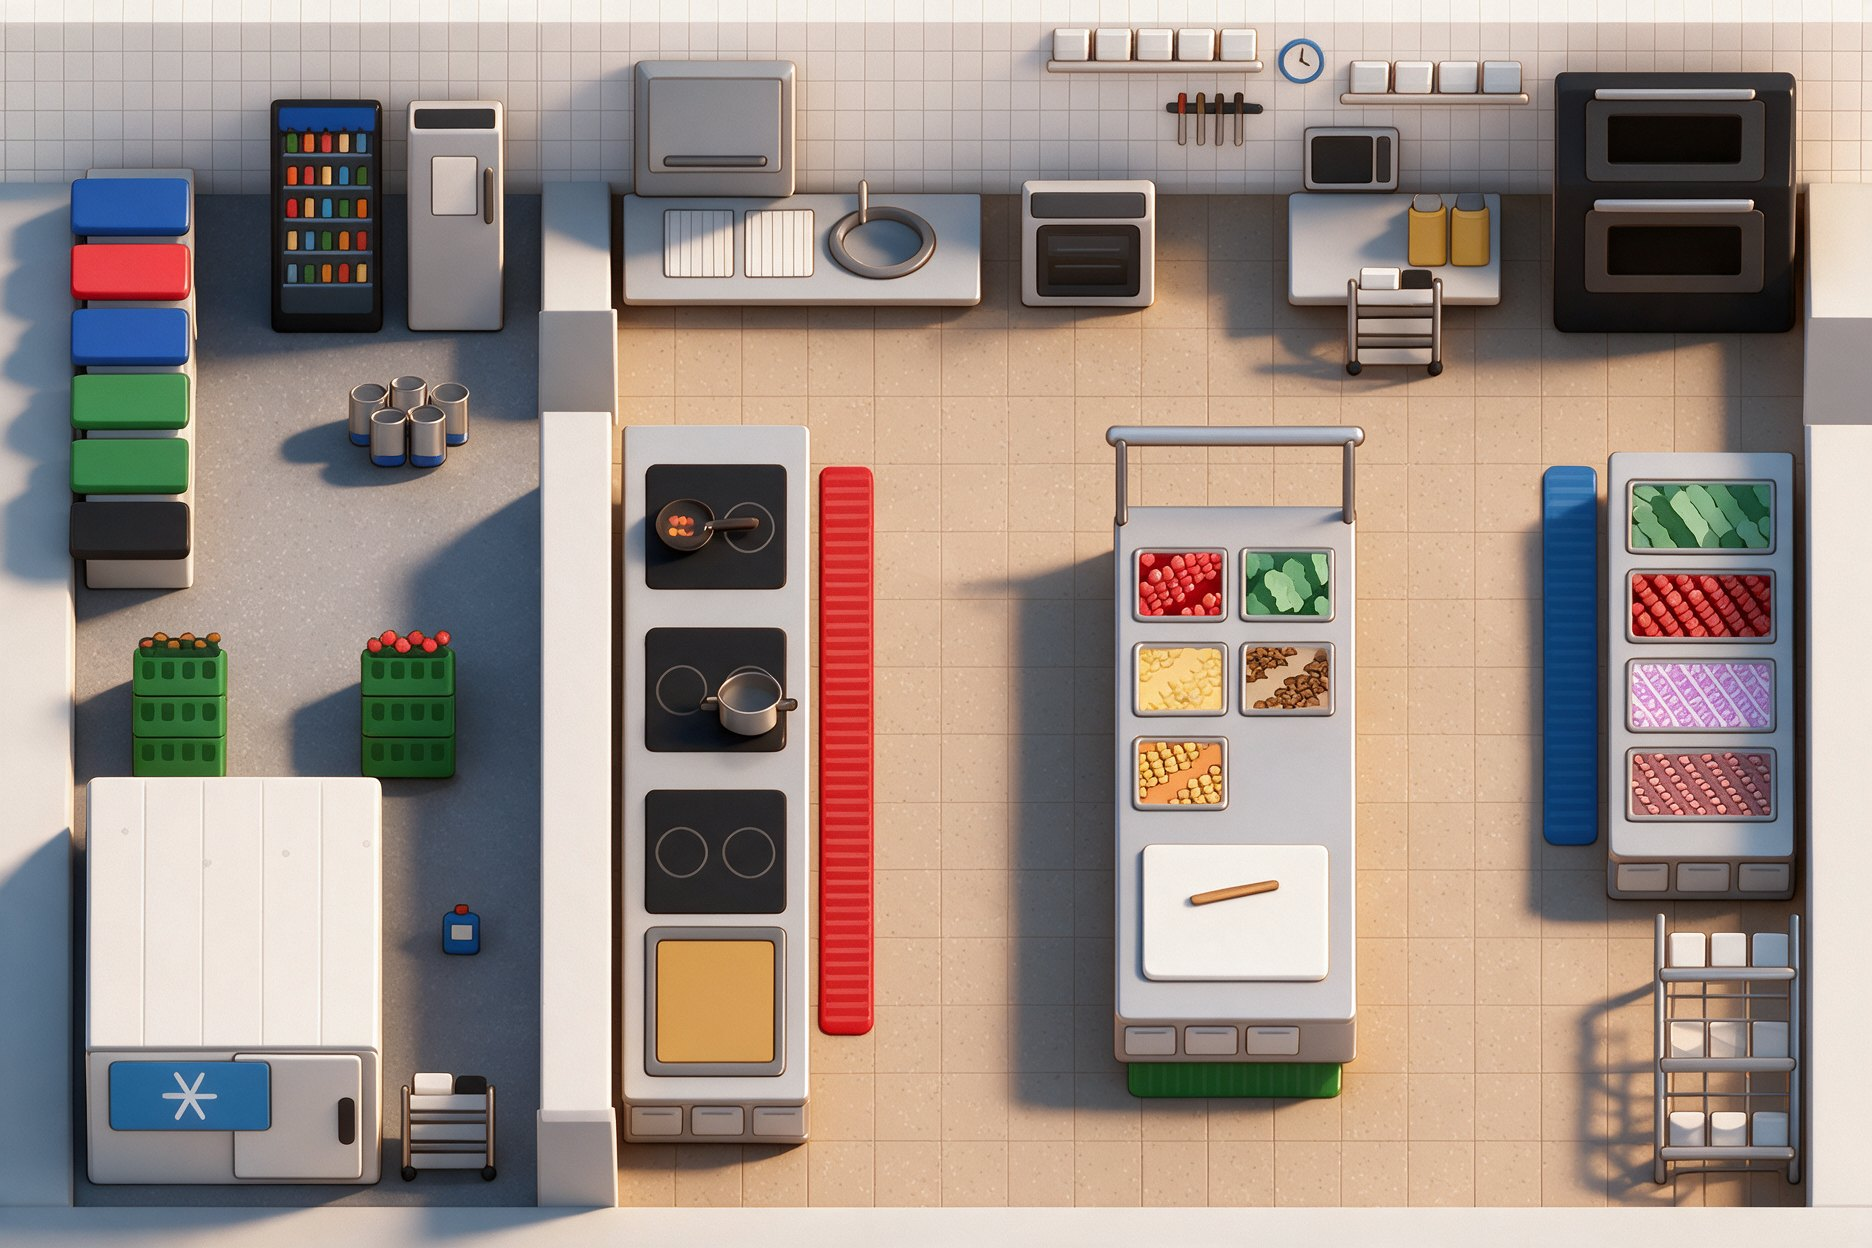
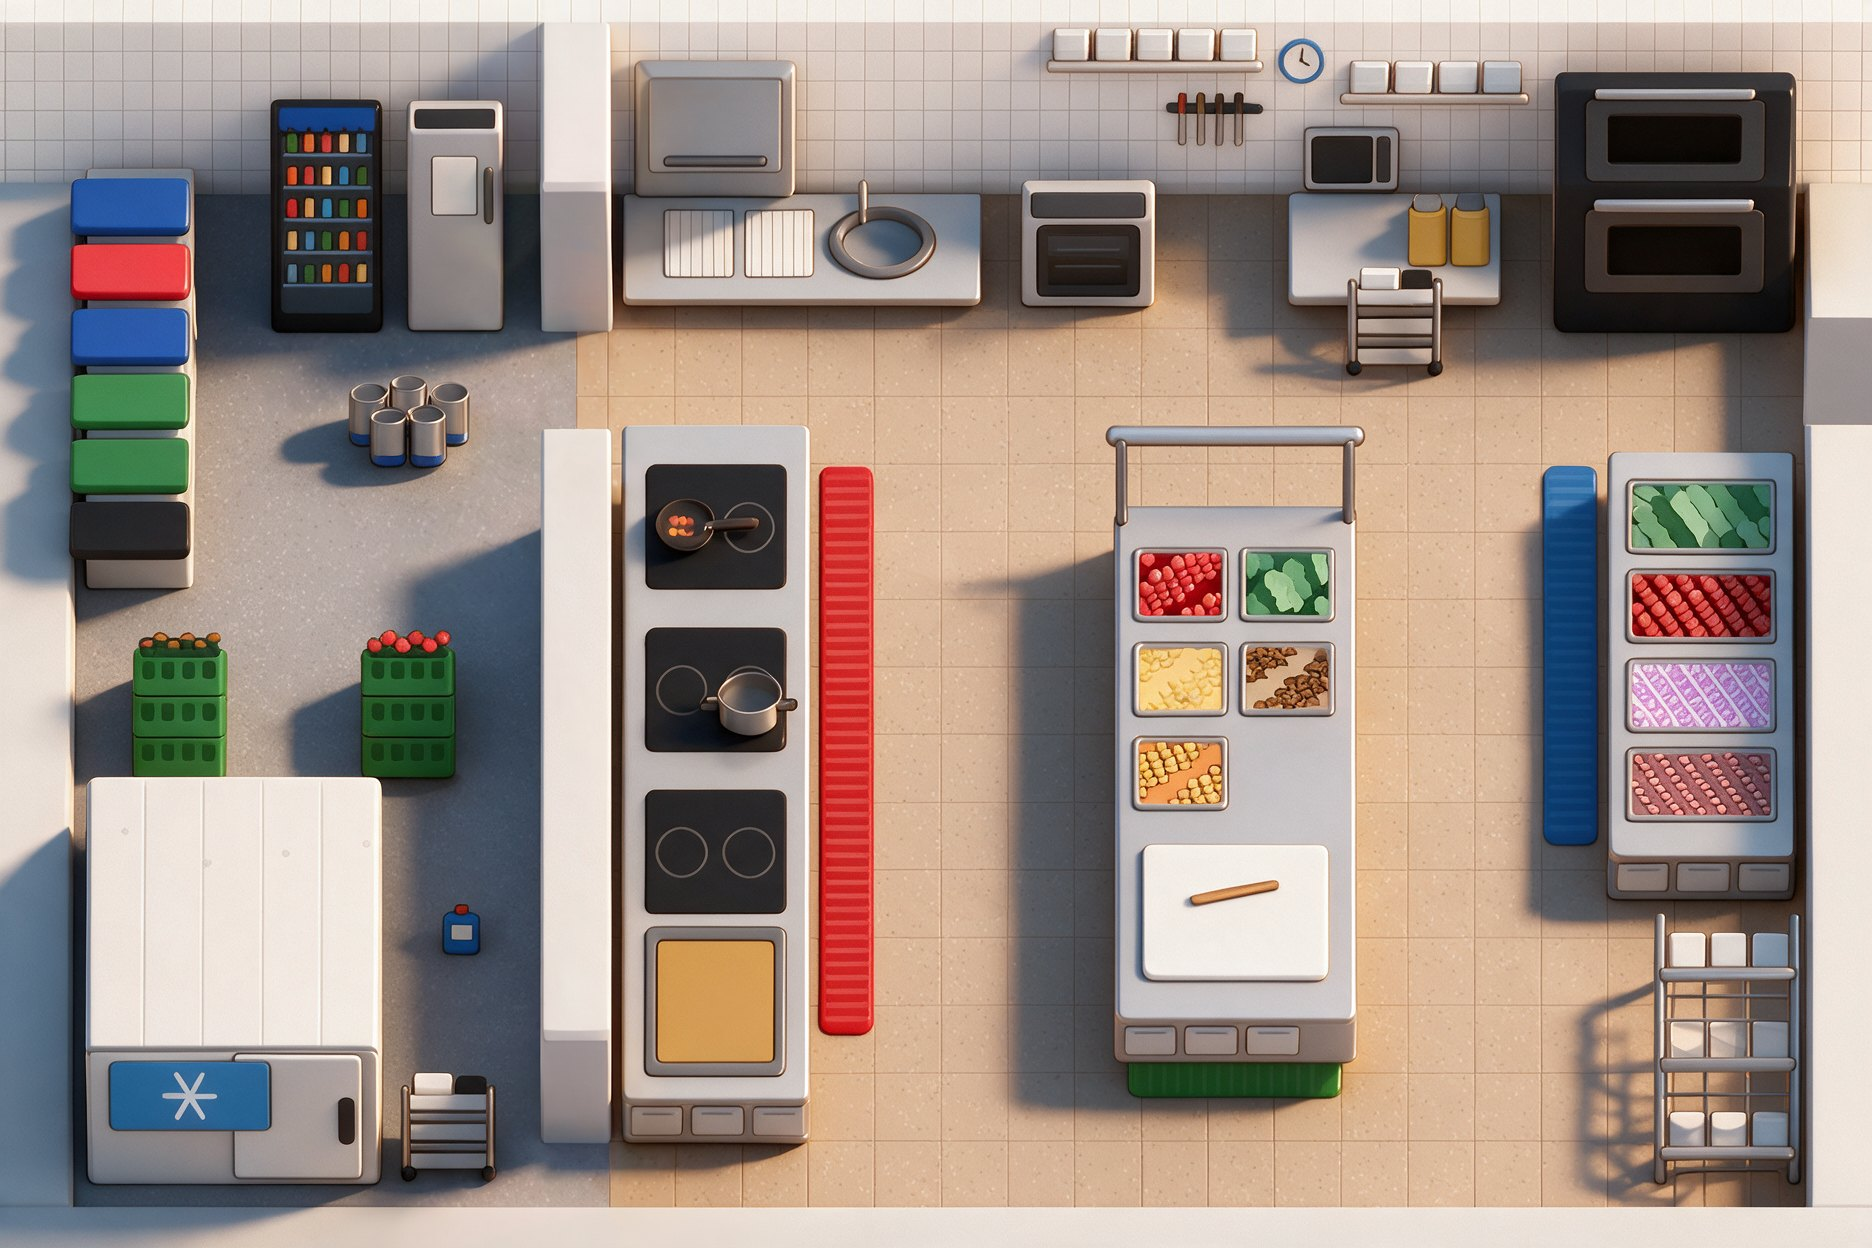
Küche Low-Poly: Durchgänge in der Mittelwand offen gemalt (passend zum Lauf-Raster)
Claude-Session: https://claude.ai/code/session_01Qhb842PDzUHjhoZQzbWqNn

Changed region(s): [[0.1549, 0.0, 0.3718, 0.375], [0.1859, 0.8125, 0.3408, 1.0], [0.2169, 0.375, 0.3098, 0.4688]]

diff --git a/js/lowpoly.js b/js/lowpoly.js
@@ -5,7 +5,7 @@
 // wieder über eine Figur, steht aber nicht im Einsatz: Bei großen Figuren schneidet es sie neben Wänden halb ab.
 const LP = {
   on: !/[?&]lowpoly=0/.test(location.search),
-  stages: { kueche: { map: 'assets/lowpoly/kueche/map.jpg', staff: { k_nina: 'nina', k_tom: 'tom', k_luca: 'luca', k_marco: 'marco', k_lea: 'lea' } } },
+  stages: { kueche: { map: 'assets/lowpoly/kueche/map.jpg?v=2', staff: { k_nina: 'nina', k_tom: 'tom', k_luca: 'luca', k_marco: 'marco', k_lea: 'lea' } } },
   catH: 96, staffH: 118,   // Figurengröße passend zu den Möbeln im Bild
   img: {}, ready: false, runs: {},
   player: { face: 'front', flip: 1, dist: 0, lx: null, ly: null },

diff --git a/index.html b/index.html
@@ -39,6 +39,7 @@
 <script src="js/stage_aussen.js?v=20261030p"></script>
 <script src="js/stage_chalet.js?v=20261030p"></script>
 <script src="js/stage_parkplatz.js?v=20261030p"></script>
+<script src="js/lowpoly.js?v=20261029lp2"></script>
 <script src="js/lowpoly.js?v=20261029lp1"></script>
 <script src="js/world.js?v=20261030p"></script>
 <script src="js/tutorial.js?v=20261030p"></script>
